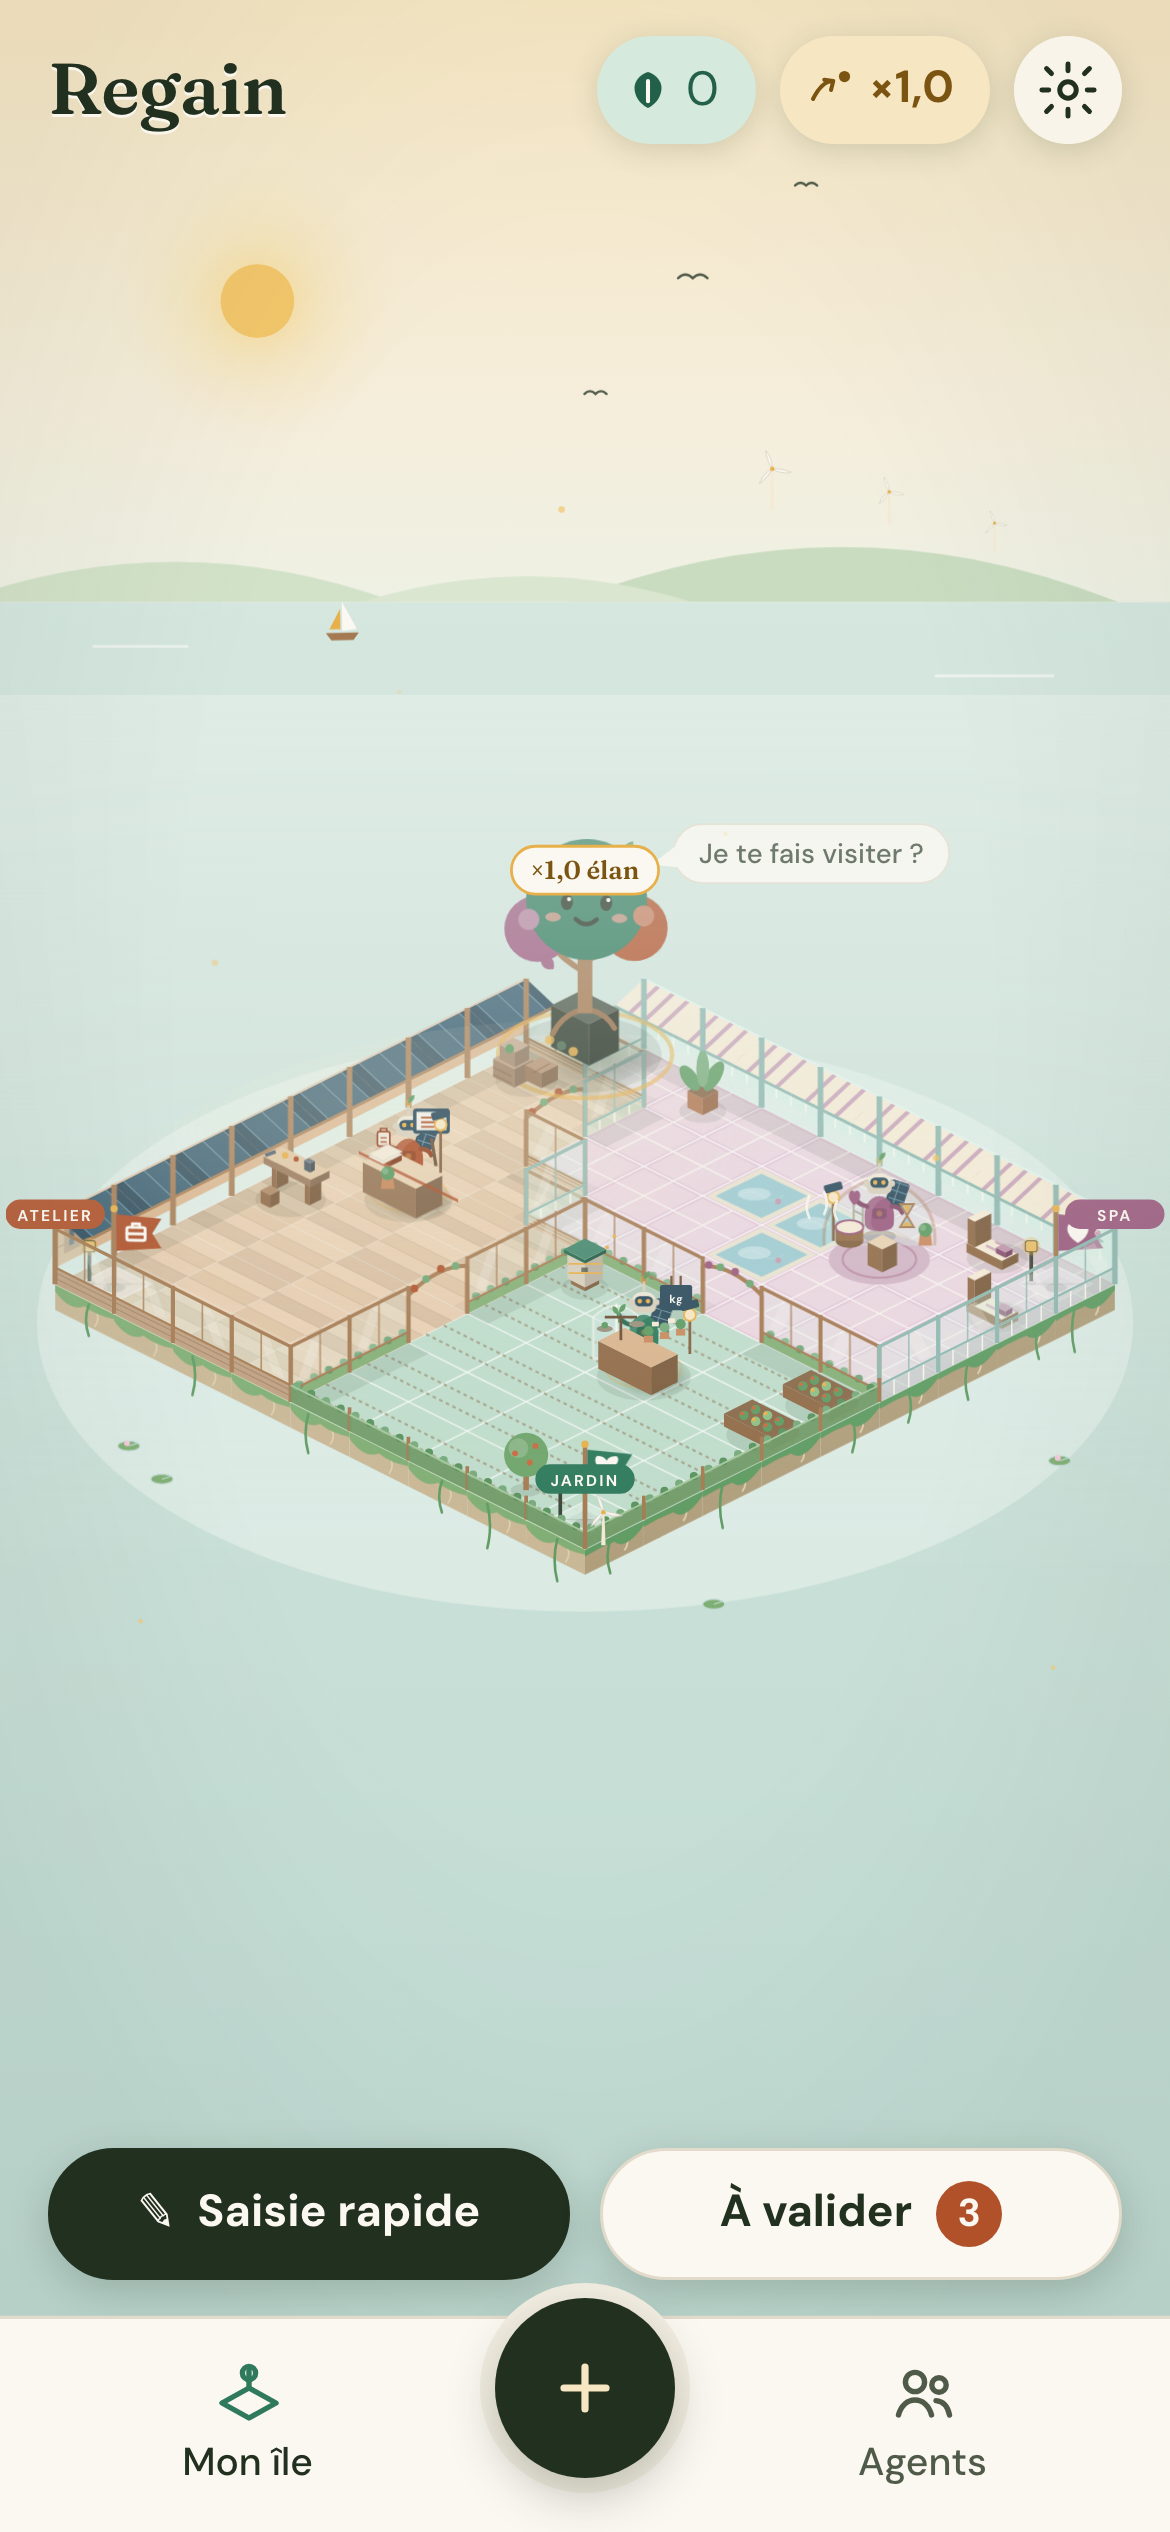
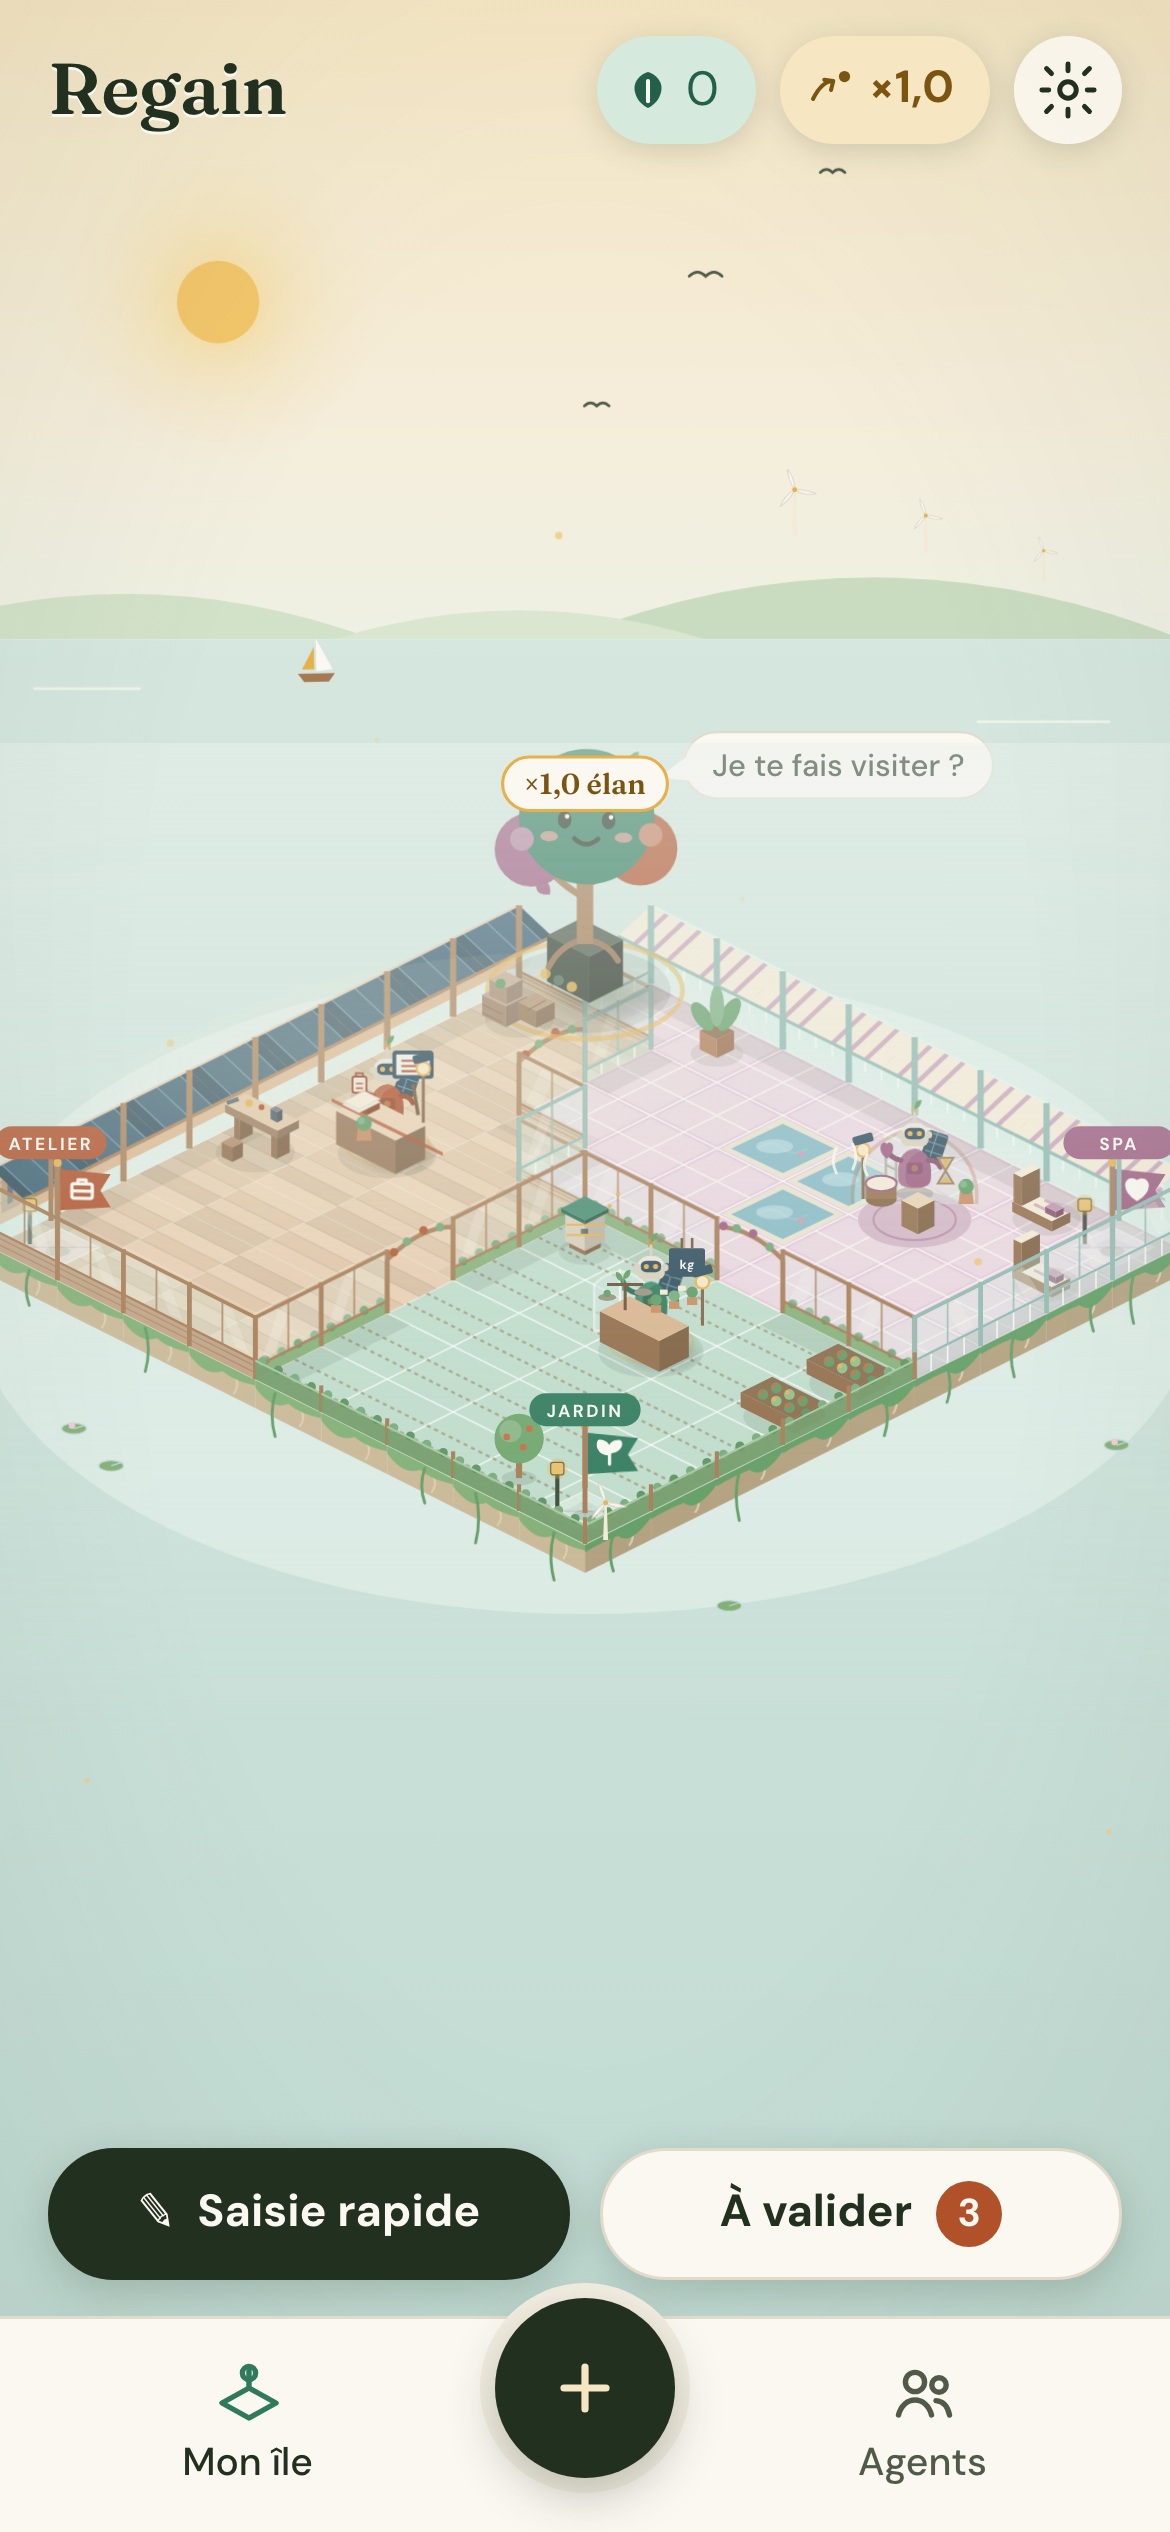
Mon île : île centrée, zoom de départ ×1,12, bassin plus franc, enseignes rentrées

diff --git a/src/ui/ZoomPan.tsx b/src/ui/ZoomPan.tsx
@@ -10,9 +10,18 @@ interface Vue { s: number; tx: number; ty: number }
  * Zoom par pincement (ou molette) et déplacement au doigt sur l'île ;
  * double-tap pour recentrer. Les taps brefs continuent d'atteindre l'île.
  */
-export function ZoomPan({ children }: { children: ReactNode }) {
+interface VueInitiale {
+  /** Facteur de zoom de départ. */
+  s: number
+  /** Point du cadre (fractions 0-1) à garder au centre. */
+  cx: number
+  cy: number
+}
+
+export function ZoomPan({ children, initiale }: { children: ReactNode; initiale?: VueInitiale }) {
   const cadre = useRef<HTMLDivElement>(null)
   const [vue, setVue] = useState<Vue>({ s: 1, tx: 0, ty: 0 })
+  const initialisee = useRef(false)
   const pointeurs = useRef(new Map<number, { x: number; y: number }>())
   const geste = useRef<{ dist: number; cx: number; cy: number; vue: Vue } | null>(null)
   const dernierTap = useRef<{ t: number; x: number; y: number } | null>(null)
@@ -36,7 +45,31 @@ export function ZoomPan({ children }: { children: ReactNode }) {
     return borner({ s, tx: px - (px - base.tx) * r, ty: py - (py - base.ty) * r })
   }, [borner])
 
-  const recentrer = useCallback(() => setVue({ s: 1, tx: 0, ty: 0 }), [])
+  /** Vue de départ : zoom léger centré sur l'île. */
+  const vueInitiale = useCallback((): Vue => {
+    const el = cadre.current
+    if (!el || !initiale) return { s: 1, tx: 0, ty: 0 }
+    const w = el.clientWidth, h = el.clientHeight
+    return borner({ s: initiale.s, tx: w / 2 - initiale.cx * w * initiale.s, ty: h / 2 - initiale.cy * h * initiale.s })
+  }, [borner, initiale])
+
+  // Double-tap : retour à la vue de départ ; si on y est déjà, vue d'ensemble.
+  const recentrer = useCallback(() => {
+    setVue((v) => {
+      const init = vueInitiale()
+      const dejaLa = Math.abs(v.s - init.s) < 0.02 && Math.abs(v.tx - init.tx) < 2 && Math.abs(v.ty - init.ty) < 2
+      return dejaLa ? { s: 1, tx: 0, ty: 0 } : init
+    })
+  }, [vueInitiale])
+
+  // Au premier affichage (une fois le cadre mesuré), on applique la vue de départ.
+  useEffect(() => {
+    if (initialisee.current || !initiale) return
+    const el = cadre.current
+    if (!el || !el.clientHeight) return
+    initialisee.current = true
+    setVue(vueInitiale())
+  })
 
   const local = (e: { clientX: number; clientY: number }) => {
     const r = cadre.current!.getBoundingClientRect()
@@ -123,7 +156,7 @@ export function ZoomPan({ children }: { children: ReactNode }) {
       <div className="zoompan-contenu" style={{ transform: `translate(${vue.tx}px, ${vue.ty}px) scale(${vue.s})` }}>
         {children}
       </div>
-      {vue.s > 1.02 && (
+      {Math.abs(vue.s - (initiale?.s ?? 1)) > 0.02 && (
         <button className="zoompan-recentrer" onClick={recentrer} aria-label="Recentrer l’île">
           ⤢
         </button>

diff --git a/src/island/LieuxZones.tsx b/src/island/LieuxZones.tsx
@@ -407,11 +407,11 @@ function Bassin({ tuiles }: { tuiles: Tuile[] }) {
         <polygon key={i} points={pts([sx, sy - TH + 1], [sx + TW - 2, sy], [sx, sy + TH - 1], [sx - TW + 2, sy])} fill="#E9E2D0" />
       ))}
       {p.map(({ sx, sy }, i) => (
-        <polygon key={i} points={pts([sx, sy - TH + 4], [sx + TW - 7, sy], [sx, sy + TH - 4], [sx - TW + 7, sy])} fill="#9FCBD1" />
+        <polygon key={i} points={pts([sx, sy - TH + 4], [sx + TW - 7, sy], [sx, sy + TH - 4], [sx - TW + 7, sy])} fill="#86B9C4" />
       ))}
       {p.map(({ sx, sy }, i) => (
         <g key={i}>
-          <ellipse cx={sx - 4} cy={sy - 1} rx={9} ry={3.5} fill="#BFDCE0" />
+          <ellipse cx={sx - 4} cy={sy - 1} rx={9} ry={3.5} fill="#A9D0D8" />
           <path className="source-ride" d={`M ${sx - 8} ${sy} q 4 -3 8 0 q 4 3 8 0`} stroke="#FBF8F1" strokeWidth={0.9} fill="none" opacity={0.85} />
           <circle cx={sx + 9} cy={sy + 3} r={1.6} fill={nuance(COULEUR.peau, 0.4)} />
         </g>
@@ -520,9 +520,9 @@ export function LieuxHaut({ tuiles, murs = MURS_DEFAUT }: PropsLieux) {
                 <Vitre key={i} a={ar.a} b={ar.b} style={style} ombre socle={ar.exterieur ? 9 : 5} />
               ),
             )}
-            {/* Enseigne sur poteau, à l'angle extérieur */}
+            {/* Enseigne sur poteau, à l'angle extérieur, un peu rentrée vers le Cœur pour rester dans le cadre */}
             {angle && (
-              <g transform={`translate(${angle[0]} ${angle[1]})`}>
+              <g transform={`translate(${angle[0] + (coeur.sx - angle[0]) * 0.1} ${angle[1] + (coeur.sy - angle[1]) * 0.1})`}>
                 <rect x={-1.2} y={-34} width={2.4} height={34} fill={style.poteau} />
                 <rect x={-27} y={-46} width={54} height={16} rx={8} fill={c} />
                 <text x={0} y={-34.5} textAnchor="middle" fontFamily="DM Sans, sans-serif" fontSize={8.5} fontWeight={700} fill="#FBF8F1" letterSpacing={1.2}>

diff --git a/src/island/Island.tsx b/src/island/Island.tsx
@@ -181,7 +181,7 @@ export function Island({
   if (ratio) {
     // Plein écran : la scène épouse le cadre, l'île un peu sous le milieu, ciel et mer tout autour.
     H = Math.max(H, W / ratio)
-    y0 = (b.minY + b.maxY) / 2 - H * 0.56
+    y0 = (b.minY + b.maxY) / 2 - H * 0.5
   }
   const horizon = y0 + H * 0.26
   const cadre = { x0, y0, W, H, horizon }

diff --git a/src/screens/MonIle.tsx b/src/screens/MonIle.tsx
@@ -84,7 +84,7 @@ export function MonIle() {
 
       <div className="mon-ile-cadre">
         <div className="mon-ile-scene" ref={scene}>
-          <ZoomPan>
+          <ZoomPan initiale={{ s: 1.12, cx: 0.5, cy: 0.46 }}>
           <Island
             tuiles={tuiles}
             placements={placements}
